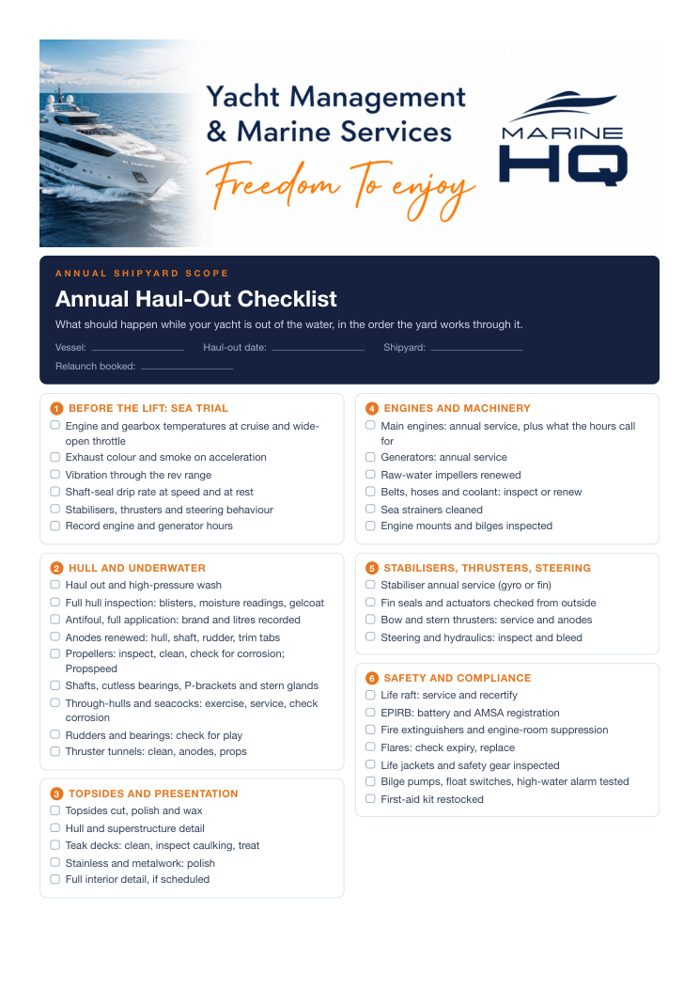
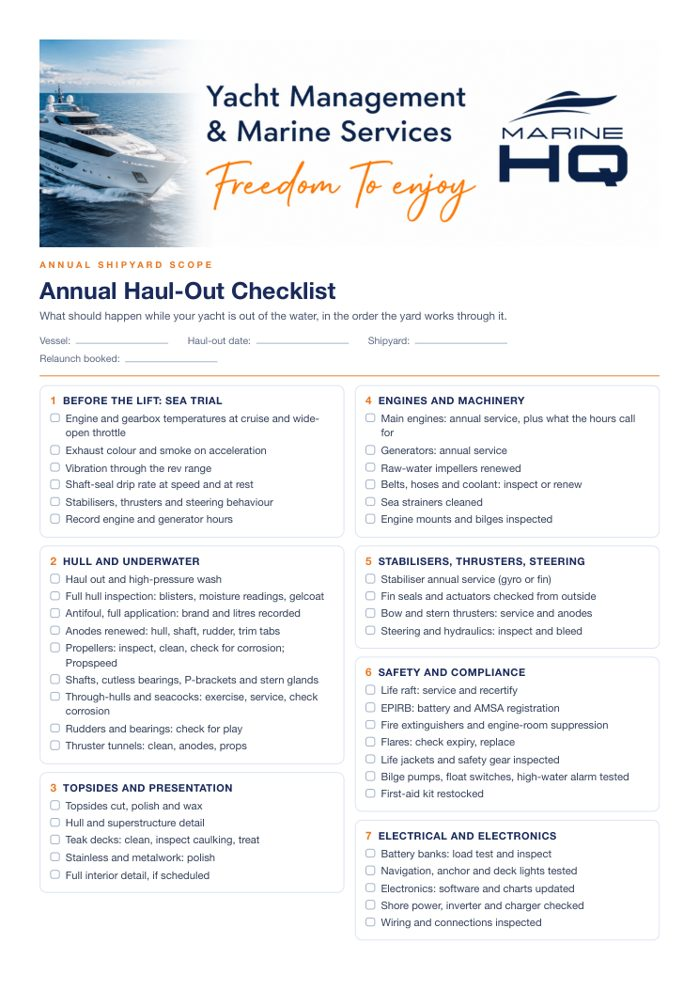
Quieter branding: no navy or orange blocks, colour as notes only
Light hero with a clean photo band, outlined buttons, pale table headers,
light end panels, white links page, lighter product thumbnails.

Changed region(s): [[0.03, 0.2424, 0.9614, 0.9394]]

diff --git a/site/links/index.html b/site/links/index.html
@@ -2,5 +2,5 @@
 <meta charset="utf-8"><meta name="viewport" content="width=device-width,initial-scale=1"><title>Marine HQ — links</title><meta name="description" content="Marine HQ: yacht management on the Gold Coast. Guides, the Yacht Owner&rsquo;s Kit, and how to reach us."><link rel="canonical" href="https://guides.marinehq.com.au/links/"><link rel="icon" href="/assets/white_favicon-64.png"><link href="https://fonts.googleapis.com/css2?family=Bodoni+Moda:opsz,wght@6..96,500&family=Inter:wght@400;600&family=Montserrat:wght@700&display=swap" rel="stylesheet"><link rel="stylesheet" href="/assets/style.css?v=20261004">
 <script async src="https://www.googletagmanager.com/gtag/js?id=G-657FQN68L7"></script>
 <script>window.dataLayer=window.dataLayer||[];function gtag(){dataLayer.push(arguments);}gtag('js',new Date());gtag('config','G-657FQN68L7');</script>
-</head><body class="lkpage"><main class="lkwrap"><img class="lklogo" src="/assets/logo_orange.png" alt="Marine HQ"><h1>Marine HQ</h1><p>Yacht management and maintenance. Gold Coast, Sydney, Whitsundays.</p><a class="lk" href="/"><b>Read the guides</b><span>Costs, marinas, maintenance, passages</span></a><a class="lk" href="/owners-kit/"><b>The Yacht Owner&rsquo;s Kit</b><span>Checklists and schedules from $7</span></a><a class="lk" href="/guides/cost-of-owning-a-yacht-gold-coast/"><b>What does it cost to own a yacht?</b><span>The Gold Coast numbers</span></a><a class="lk" href="/guides/do-you-need-full-time-crew/"><b>Do you need full-time crew?</b><span>Driving her yourself, day crew, captains</span></a><a class="lk" href="/guides/myyacht-owner-app-guide/"><b>MyYacht, the owner app</b><span>Screen by screen</span></a><a class="lk" href="https://www.marinehq.com.au/"><b>Marine HQ website</b><span>Yacht management and maintenance</span></a><a class="lk" href="https://wa.me/61439748387"><b>WhatsApp us</b><span>Usually within the hour</span></a><a class="lk" href="tel:+61439748387"><b>Call 0439 748 387</b></a><p class="lkfoot">Freedom to enjoy.</p></main>
+</head><body class="lkpage"><main class="lkwrap"><img class="lklogo" src="/assets/logo_navy.png" alt="Marine HQ"><h1>Marine HQ</h1><p>Yacht management and maintenance. Gold Coast, Sydney, Whitsundays.</p><a class="lk" href="/"><b>Read the guides</b><span>Costs, marinas, maintenance, passages</span></a><a class="lk" href="/owners-kit/"><b>The Yacht Owner&rsquo;s Kit</b><span>Checklists and schedules from $7</span></a><a class="lk" href="/guides/cost-of-owning-a-yacht-gold-coast/"><b>What does it cost to own a yacht?</b><span>The Gold Coast numbers</span></a><a class="lk" href="/guides/do-you-need-full-time-crew/"><b>Do you need full-time crew?</b><span>Driving her yourself, day crew, captains</span></a><a class="lk" href="/guides/myyacht-owner-app-guide/"><b>MyYacht, the owner app</b><span>Screen by screen</span></a><a class="lk" href="https://www.marinehq.com.au/"><b>Marine HQ website</b><span>Yacht management and maintenance</span></a><a class="lk" href="https://wa.me/61439748387"><b>WhatsApp us</b><span>Usually within the hour</span></a><a class="lk" href="tel:+61439748387"><b>Call 0439 748 387</b></a><p class="lkfoot">Freedom to enjoy.</p></main>
 </body></html>

diff --git a/site/assets/style.css b/site/assets/style.css
@@ -329,3 +329,39 @@ html,body{max-width:100%;overflow-x:clip}
 .lk b{display:block;font-weight:600;font-size:1.02rem}
 .lk span{display:block;font-size:.82rem;opacity:.75;margin-top:2px}
 .lkfoot{font-family:var(--serif);font-style:italic;color:#fb7414!important;margin-top:26px!important}
+
+/* ── Quieter branding (4 Oct 2026, Trish): no dark-blue blocks, no orange blocks. Navy and orange are
+      for type, hairlines and small notes only. The top bar stays navy to match marinehq.com.au. ── */
+.btn,.prod-act .btn,.cta.end .btn,.foot-cta .btn,.shop-done .btn,.side-cta .btn{background:#fff;color:var(--navy);border:1.5px solid var(--navy)}
+.btn:hover,.prod-act .btn:hover,.cta.end .btn:hover,.foot-cta .btn:hover,.shop-done .btn:hover,.side-cta .btn:hover{background:#fff;color:var(--orange);border-color:var(--orange)}
+.btn.ghost,.cta.end .btn.ghost,.foot-cta .btn.ghost,.shop-done .btn.ghost{background:transparent;color:var(--navy);border:1px solid var(--line-2)}
+.btn.ghost:hover,.cta.end .btn.ghost:hover,.foot-cta .btn.ghost:hover,.shop-done .btn.ghost:hover{color:var(--orange);border-color:var(--orange)}
+.hero.small{background:var(--wash);color:var(--navy);border-bottom:1px solid var(--line);padding:46px 0 34px}
+.hero.small h1{color:var(--navy)}
+.hero.small .stand{color:var(--ink-2)}
+.hero.small .crumbs{color:var(--mute);text-shadow:none}
+.hero.small .crumbs a{color:var(--navy)}
+.cta.end,.foot-cta,.shop-done{background:var(--wash);color:var(--ink);border:1px solid var(--line);border-top:2px solid var(--orange)}
+.cta.end h2,.foot-cta h2,.shop-done h2{color:var(--navy)}
+.cta.end p,.foot-cta p,.shop-done p{color:var(--ink-2)}
+.shopcard.is-kit{border-top-color:var(--navy);background:#fff}
+.prod{background:#fff}
+.lkpage{background:#fff;color:var(--ink)}
+.lkwrap h1{color:var(--navy)}
+.lkwrap h1:after{content:"";display:block;width:44px;height:2px;background:var(--orange);margin:14px auto 0}
+.lkwrap p{color:var(--ink-2)}
+.lk{background:#fff;color:var(--navy);border:1px solid var(--line-2);border-radius:6px}
+.lk:hover{background:#fff;color:var(--orange);border-color:var(--orange)}
+.lkfoot{color:var(--orange)!important}
+.body th{background:#eef2f8;color:var(--navy);border-bottom:2px solid var(--orange)}
+/* hero: light ground, navy type, the photo shown clean underneath (no navy wash over it) */
+.hero{background:var(--wash);color:var(--navy);padding:54px 0 0}
+.hero.home{padding:64px 0 0}
+.hero h1{color:var(--navy)}
+.hero .stand{color:var(--ink-2)}
+.hero .eyebrow,.hero .crumbs,.hero .meta{text-shadow:none}
+.hero .meta,.hero .crumbs{color:var(--mute)}
+.hero .crumbs a{color:var(--navy)}
+.hero:after{content:"";display:block;height:clamp(170px,30vw,400px);margin-top:34px;background:var(--photo) center/cover no-repeat}
+.hero.small{padding:46px 0 34px}
+.hero.small:after{display:none}

diff --git a/site/assets/whatsapp-widget.js b/site/assets/whatsapp-widget.js
@@ -7,9 +7,9 @@
   +'#mhqwa .b{width:60px;height:60px;border-radius:50%;background:#25D366;border:0;cursor:pointer;box-shadow:0 8px 24px rgba(0,0,0,.25);display:flex;align-items:center;justify-content:center;position:relative}'
   +'#mhqwa .b svg{width:32px;height:32px;fill:#fff}#mhqwa .b i{position:absolute;top:2px;right:2px;width:12px;height:12px;border-radius:50%;background:#e87722;border:2px solid #fff}'
   +'#mhqwa .p{position:absolute;right:0;bottom:74px;width:min(340px,calc(100vw - 36px));background:#fff;border-radius:14px;box-shadow:0 16px 48px rgba(22,34,63,.28);overflow:hidden;display:none}'
-  +'#mhqwa.open .p{display:block}#mhqwa .h{background:#16223f;color:#fff;padding:14px 16px;display:flex;align-items:center;gap:12px}'
-  +'#mhqwa .h b{display:block;font-size:15px}#mhqwa .h span{font-size:12px;color:#c9d3e6}#mhqwa .h .x{margin-left:auto;background:none;border:0;color:#fff;font-size:22px;cursor:pointer;line-height:1}'
-  +'#mhqwa .lg{width:36px;height:36px;border-radius:50%;background:#fff;display:flex;align-items:center;justify-content:center;color:#16223f;font-weight:800;font-size:11px;letter-spacing:.5px}'
+  +'#mhqwa.open .p{display:block}#mhqwa .h{background:#fff;color:#1a2b5c;border-bottom:2px solid #e87722;padding:14px 16px;display:flex;align-items:center;gap:12px}'
+  +'#mhqwa .h b{display:block;font-size:15px}#mhqwa .h span{font-size:12px;color:#5d6a82}#mhqwa .h .x{margin-left:auto;background:none;border:0;color:#1a2b5c;font-size:22px;cursor:pointer;line-height:1}'
+  +'#mhqwa .lg{width:36px;height:36px;border-radius:50%;background:#fff;border:1.5px solid #1a2b5c;display:flex;align-items:center;justify-content:center;color:#16223f;font-weight:800;font-size:11px;letter-spacing:.5px}'
   +'#mhqwa .m{background:#eef1f8;padding:16px}#mhqwa .g{background:#fff;border-radius:10px;padding:12px 14px;font-size:14px;color:#1f2740;line-height:1.5;max-width:88%;box-shadow:0 1px 2px rgba(0,0,0,.06)}'
   +'#mhqwa .f{padding:12px}#mhqwa textarea{width:100%;box-sizing:border-box;border:1px solid #cfd6e2;border-radius:10px;padding:10px 12px;font:inherit;font-size:14px;resize:none;height:64px}'
   +'#mhqwa .s{display:block;width:100%;margin-top:10px;background:#25D366;color:#fff;border:0;border-radius:10px;padding:13px;font-weight:700;font-size:15px;cursor:pointer}'

diff --git a/site/guides/detailing-and-ceramic-coating-gold-coast/index.html b/site/guides/detailing-and-ceramic-coating-gold-coast/index.html
@@ -29,7 +29,7 @@
 </header>
 <nav class="sub" aria-label="Guide sections"><div class="wrap sub-bar"><a class="sub-home" href="/">All guides</a><a href="/costs/">Costs</a><a href="/maintenance/">Maintenance</a><a href="/marinas/">Marinas</a><a href="/buying/">Buying & selling</a><a href="/cruising/">Cruising & passages</a><a href="/ownership/">Ownership</a><a class="sub-kit" href="/owners-kit/">Owner&rsquo;s Kit</a></div></nav>
 
-<section class="hero" style="background-image:linear-gradient(180deg,rgba(22,34,63,.50) 0%,rgba(22,34,63,.62) 40%,rgba(22,34,63,.94) 100%),url('/assets/photos/teak-deck.jpg')">
+<section class="hero" style="--photo:url('/assets/photos/teak-deck.jpg')">
   <div class="wrap">
     <div class="crumbs"><a href="/">Guides</a> <span>&rsaquo;</span> <a href="/maintenance/">Maintenance</a></div>
     <h1>Detailing and ceramic coating for a motor yacht on the Gold Coast: what it costs, how long it lasts, and what&#x27;s in the job</h1>

diff --git a/site/guides/sanctuary-cove-boat-show-guide/index.html b/site/guides/sanctuary-cove-boat-show-guide/index.html
@@ -29,7 +29,7 @@
 </header>
 <nav class="sub" aria-label="Guide sections"><div class="wrap sub-bar"><a class="sub-home" href="/">All guides</a><a href="/costs/">Costs</a><a href="/maintenance/">Maintenance</a><a href="/marinas/">Marinas</a><a href="/buying/">Buying & selling</a><a href="/cruising/">Cruising & passages</a><a href="/ownership/">Ownership</a><a class="sub-kit" href="/owners-kit/">Owner&rsquo;s Kit</a></div></nav>
 
-<section class="hero" style="background-image:linear-gradient(180deg,rgba(22,34,63,.50) 0%,rgba(22,34,63,.62) 40%,rgba(22,34,63,.94) 100%),url('/assets/photos/bow-marina.jpg')">
+<section class="hero" style="--photo:url('/assets/photos/bow-marina.jpg')">
   <div class="wrap">
     <div class="crumbs"><a href="/">Guides</a> <span>&rsaquo;</span> <a href="/buying/">Buying &amp; selling</a></div>
     <h1>Sanctuary Cove International Boat Show 2027: dates, what&#x27;s there, and how to get the most out of it</h1>

diff --git a/site/guides/do-you-need-full-time-crew/index.html b/site/guides/do-you-need-full-time-crew/index.html
@@ -29,7 +29,7 @@
 </header>
 <nav class="sub" aria-label="Guide sections"><div class="wrap sub-bar"><a class="sub-home" href="/">All guides</a><a href="/costs/">Costs</a><a href="/maintenance/">Maintenance</a><a href="/marinas/">Marinas</a><a href="/buying/">Buying & selling</a><a href="/cruising/">Cruising & passages</a><a href="/ownership/">Ownership</a><a class="sub-kit" href="/owners-kit/">Owner&rsquo;s Kit</a></div></nav>
 
-<section class="hero" style="background-image:linear-gradient(180deg,rgba(22,34,63,.50) 0%,rgba(22,34,63,.62) 40%,rgba(22,34,63,.94) 100%),url('/assets/photos/bow-marina.jpg')">
+<section class="hero" style="--photo:url('/assets/photos/bow-marina.jpg')">
   <div class="wrap">
     <div class="crumbs"><a href="/">Guides</a> <span>&rsaquo;</span> <a href="/ownership/">Ownership</a></div>
     <h1>Do you need full-time crew? Driving her yourself, day crew, captains, and what happens when your captain leaves</h1>

diff --git a/site/guides/yacht-sops-standard-operating-procedures/index.html b/site/guides/yacht-sops-standard-operating-procedures/index.html
@@ -29,7 +29,7 @@
 </header>
 <nav class="sub" aria-label="Guide sections"><div class="wrap sub-bar"><a class="sub-home" href="/">All guides</a><a href="/costs/">Costs</a><a href="/maintenance/">Maintenance</a><a href="/marinas/">Marinas</a><a href="/buying/">Buying & selling</a><a href="/cruising/">Cruising & passages</a><a href="/ownership/">Ownership</a><a class="sub-kit" href="/owners-kit/">Owner&rsquo;s Kit</a></div></nav>
 
-<section class="hero" style="background-image:linear-gradient(180deg,rgba(22,34,63,.50) 0%,rgba(22,34,63,.62) 40%,rgba(22,34,63,.94) 100%),url('/assets/photos/at-anchor.jpg')">
+<section class="hero" style="--photo:url('/assets/photos/at-anchor.jpg')">
   <div class="wrap">
     <div class="crumbs"><a href="/">Guides</a> <span>&rsaquo;</span> <a href="/ownership/">Ownership</a></div>
     <h1>Yacht SOPs: what standard operating procedures are, why they pay for themselves, and what a good set includes</h1>

diff --git a/site/guides/annual-haul-out-checklist/index.html b/site/guides/annual-haul-out-checklist/index.html
@@ -29,7 +29,7 @@
 </header>
 <nav class="sub" aria-label="Guide sections"><div class="wrap sub-bar"><a class="sub-home" href="/">All guides</a><a href="/costs/">Costs</a><a href="/maintenance/">Maintenance</a><a href="/marinas/">Marinas</a><a href="/buying/">Buying & selling</a><a href="/cruising/">Cruising & passages</a><a href="/ownership/">Ownership</a><a class="sub-kit" href="/owners-kit/">Owner&rsquo;s Kit</a></div></nav>
 
-<section class="hero" style="background-image:linear-gradient(180deg,rgba(22,34,63,.50) 0%,rgba(22,34,63,.62) 40%,rgba(22,34,63,.94) 100%),url('/assets/photos/travel-lift.jpg')">
+<section class="hero" style="--photo:url('/assets/photos/travel-lift.jpg')">
   <div class="wrap">
     <div class="crumbs"><a href="/">Guides</a> <span>&rsaquo;</span> <a href="/maintenance/">Maintenance</a></div>
     <h1>The annual haul-out: a checklist for what should happen while your yacht is out of the water</h1>

diff --git a/site/guides/antifouling-gold-coast-cost/index.html b/site/guides/antifouling-gold-coast-cost/index.html
@@ -29,7 +29,7 @@
 </header>
 <nav class="sub" aria-label="Guide sections"><div class="wrap sub-bar"><a class="sub-home" href="/">All guides</a><a href="/costs/">Costs</a><a href="/maintenance/">Maintenance</a><a href="/marinas/">Marinas</a><a href="/buying/">Buying & selling</a><a href="/cruising/">Cruising & passages</a><a href="/ownership/">Ownership</a><a class="sub-kit" href="/owners-kit/">Owner&rsquo;s Kit</a></div></nav>
 
-<section class="hero" style="background-image:linear-gradient(180deg,rgba(22,34,63,.50) 0%,rgba(22,34,63,.62) 40%,rgba(22,34,63,.94) 100%),url('/assets/photos/travel-lift.jpg')">
+<section class="hero" style="--photo:url('/assets/photos/travel-lift.jpg')">
   <div class="wrap">
     <div class="crumbs"><a href="/">Guides</a> <span>&rsaquo;</span> <a href="/maintenance/">Maintenance</a></div>
     <h1>Antifouling on the Gold Coast: what it costs and what&#x27;s actually in the job</h1>

diff --git a/site/guides/what-size-boat-should-i-get/index.html b/site/guides/what-size-boat-should-i-get/index.html
@@ -29,7 +29,7 @@
 </header>
 <nav class="sub" aria-label="Guide sections"><div class="wrap sub-bar"><a class="sub-home" href="/">All guides</a><a href="/costs/">Costs</a><a href="/maintenance/">Maintenance</a><a href="/marinas/">Marinas</a><a href="/buying/">Buying & selling</a><a href="/cruising/">Cruising & passages</a><a href="/ownership/">Ownership</a><a class="sub-kit" href="/owners-kit/">Owner&rsquo;s Kit</a></div></nav>
 
-<section class="hero" style="background-image:linear-gradient(180deg,rgba(22,34,63,.50) 0%,rgba(22,34,63,.62) 40%,rgba(22,34,63,.94) 100%),url('/assets/photos/bow-marina.jpg')">
+<section class="hero" style="--photo:url('/assets/photos/bow-marina.jpg')">
   <div class="wrap">
     <div class="crumbs"><a href="/">Guides</a> <span>&rsaquo;</span> <a href="/buying/">Buying &amp; selling</a></div>
     <h1>What size boat should I get? Choosing a motor yacht for the Gold Coast</h1>

diff --git a/site/guides/gold-coast-marinas-compared/index.html b/site/guides/gold-coast-marinas-compared/index.html
@@ -29,7 +29,7 @@
 </header>
 <nav class="sub" aria-label="Guide sections"><div class="wrap sub-bar"><a class="sub-home" href="/">All guides</a><a href="/costs/">Costs</a><a href="/maintenance/">Maintenance</a><a href="/marinas/">Marinas</a><a href="/buying/">Buying & selling</a><a href="/cruising/">Cruising & passages</a><a href="/ownership/">Ownership</a><a class="sub-kit" href="/owners-kit/">Owner&rsquo;s Kit</a></div></nav>
 
-<section class="hero" style="background-image:linear-gradient(180deg,rgba(22,34,63,.50) 0%,rgba(22,34,63,.62) 40%,rgba(22,34,63,.94) 100%),url('/assets/photos/bow-marina.jpg')">
+<section class="hero" style="--photo:url('/assets/photos/bow-marina.jpg')">
   <div class="wrap">
     <div class="crumbs"><a href="/">Guides</a> <span>&rsaquo;</span> <a href="/marinas/">Marinas</a></div>
     <h1>Gold Coast marinas compared: where to keep a 40–120 ft motor yacht</h1>

diff --git a/site/guides/gold-coast-to-sydney-by-motor-yacht/index.html b/site/guides/gold-coast-to-sydney-by-motor-yacht/index.html
@@ -29,7 +29,7 @@
 </header>
 <nav class="sub" aria-label="Guide sections"><div class="wrap sub-bar"><a class="sub-home" href="/">All guides</a><a href="/costs/">Costs</a><a href="/maintenance/">Maintenance</a><a href="/marinas/">Marinas</a><a href="/buying/">Buying & selling</a><a href="/cruising/">Cruising & passages</a><a href="/ownership/">Ownership</a><a class="sub-kit" href="/owners-kit/">Owner&rsquo;s Kit</a></div></nav>
 
-<section class="hero" style="background-image:linear-gradient(180deg,rgba(22,34,63,.50) 0%,rgba(22,34,63,.62) 40%,rgba(22,34,63,.94) 100%),url('/assets/photos/at-anchor.jpg')">
+<section class="hero" style="--photo:url('/assets/photos/at-anchor.jpg')">
   <div class="wrap">
     <div class="crumbs"><a href="/">Guides</a> <span>&rsaquo;</span> <a href="/cruising/">Cruising &amp; passages</a></div>
     <h1>Taking your motor yacht from the Gold Coast to Sydney</h1>
